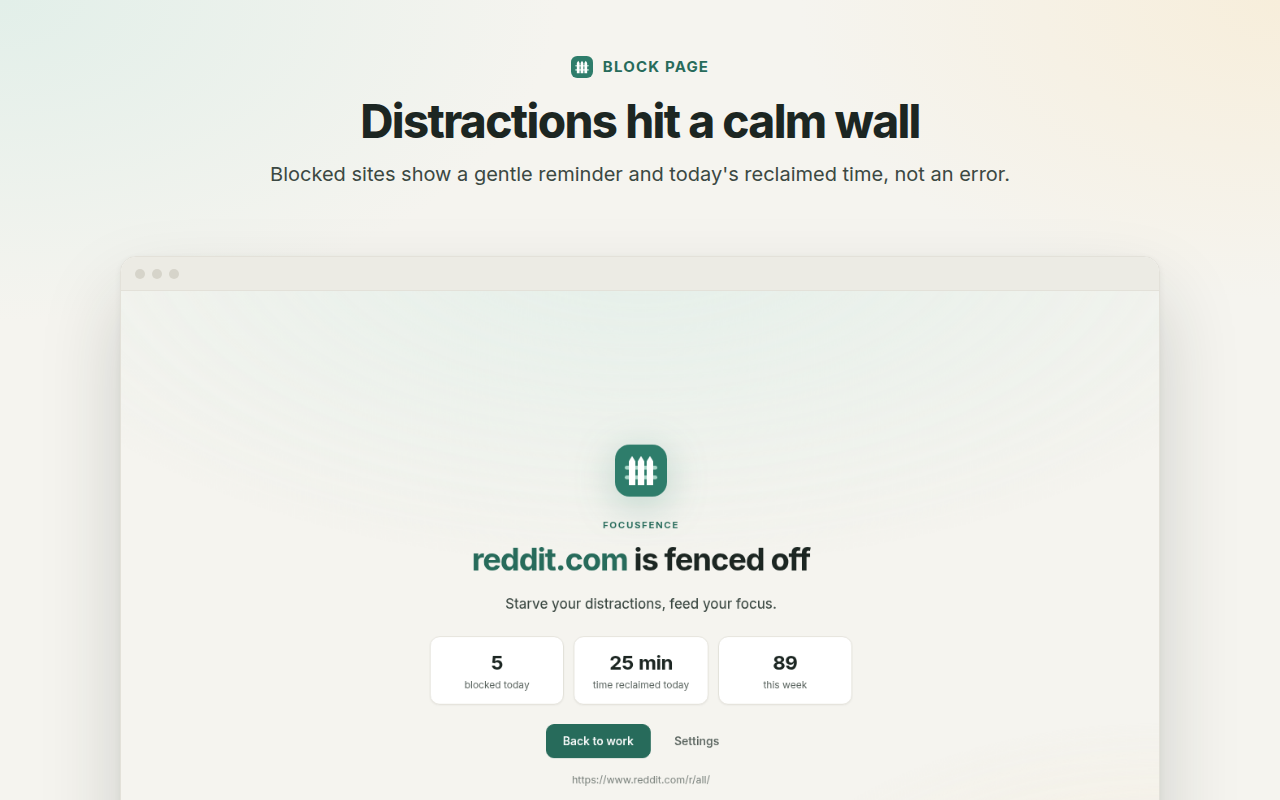
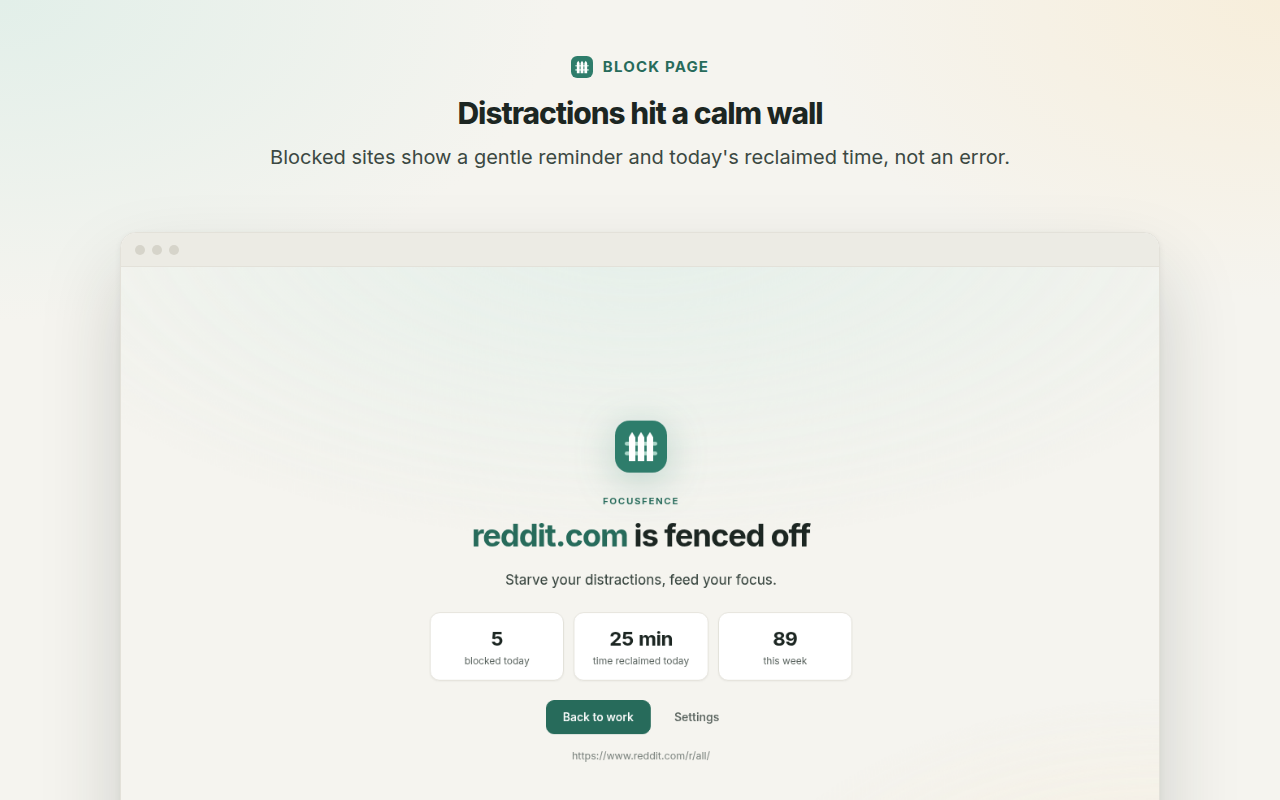
docs(focusfence): localized store screenshots and promo tiles (fr, es, de)
5 captioned 1280x800 screenshots + 440x280 promo tile per language, rendered
from the real extension running in that language; captions in
store/screenshots.json, plan and translations in store/screenshots.md;
long translations shrink the headline / move the frame automatically.

diff --git a/focusfence/store/screenshots.md b/focusfence/store/screenshots.md
@@ -1,7 +1,7 @@
 # Chrome Web Store screenshots: plan and captions
 
-Five screenshots, **1280×800 PNG**, uploaded in this order. The first one is the most important: it shows in search results and at the top of the listing.
-Captions live in [`screenshots.json`](screenshots.json), the single source used by `npm run screenshots`. Edit the texts there, never in the images.
+Five screenshots, **1280×800 PNG**, uploaded in this order, in **four languages**: English (`screenshots/`), French (`screenshots/fr/`), Spanish (`screenshots/es/`) and German (`screenshots/de/`). Each folder also has its own 440×280 promo tile. The first one is the most important: it shows in search results and at the top of the listing.
+Captions live in [`screenshots.json`](screenshots.json), the single source used by the screenshot script. Edit the texts there, never in the images. The UI inside each image is the real extension running in that language.
 
 | # | File | Kicker | Headline | Subtitle | What the UI shows | Why it's in this slot |
 |---|---|---|---|---|---|---|
@@ -11,12 +11,41 @@ Captions live in [`screenshots.json`](screenshots.json), the single source used 
 | 4 | `screenshots/store-4-schedule-focus-strict.png` | SCHEDULES · FOCUS · STRICT MODE | **Focus on your schedule** | Block during work hours, run Pomodoro sessions, lock it in with strict mode. | Two weekday time ranges, Pomodoro settings (25/5 × 4), strict-mode start | Groups the three Pro features people search for (schedule, pomodoro, strict). |
 | 5 | `screenshots/store-5-stats.png` | PRIVATE STATS | **See the time you take back** | Blocked attempts per site and per day, counted on your device only. | 7-day bar chart (decreasing), top sites, "7h 25m reclaimed" | Motivation plus the privacy promise; closes the scroll on a positive result. |
 
-Small promo tile (440×280): `screenshots/promo-tile-440x280.png`, "Fence off distractions. Get your focus back."
+Small promo tile (440×280): `promo-tile-440x280.png` in each language folder:
+
+| Lang | Headline | Subtitle |
+|---|---|---|
+| en | Fence off distractions. Get your focus back. | Block sites, schedule focus, stay in strict mode. |
+| fr | Bloquez les distractions. Retrouvez votre concentration. | Bloquez des sites, planifiez, passez en mode strict. |
+| es | Bloquea distracciones. Recupera la concentración. | Bloquea webs, planifica tu foco, usa el modo estricto. |
+| de | Ablenkungen aussperren. Fokus zurückholen. | Seiten sperren, Fokus planen, strikter Modus. |
+
+## Translated captions (fr, es, de)
+
+| # | Lang | Kicker | Headline | Subtitle |
+|---|---|---|---|---|
+| 1 | fr | Page de blocage | **Les distractions butent sur un mur apaisant** | Les sites bloqués affichent un rappel bienveillant et le temps regagné, pas une erreur. |
+| 1 | es | Página de bloqueo | **Las distracciones chocan con un muro tranquilo** | Las webs bloqueadas muestran un recordatorio amable y el tiempo recuperado, no un error. |
+| 1 | de | Sperrseite | **Ablenkungen prallen an einer ruhigen Wand ab** | Gesperrte Seiten zeigen eine freundliche Erinnerung und gewonnene Zeit – keinen Fehler. |
+| 2 | fr | En un clic | **Bloquez les fils sans fin.** | Bloquez les sites qui vous distraient en un clic, ou seulement le pire, comme YouTube Shorts. |
+| 2 | es | Con un clic | **Corta los feeds infinitos.** | Bloquea las webs que te distraen con un clic, o solo lo peor, como YouTube Shorts. |
+| 2 | de | Ein Klick | **Schluss mit endlosen Feeds.** | Blockiere ablenkende Seiten mit einem Klick – oder nur das Schlimmste, wie YouTube Shorts. |
+| 3 | fr | Liste de blocage | **Bloquez un site entier, ou juste le pire** | Sous-domaines compris. Pro bloque des chemins comme youtube.com/shorts, ou un mot-clé. |
+| 3 | es | Lista de bloqueo | **Bloquea webs enteras, o solo lo peor** | Subdominios incluidos. Pro bloquea rutas como youtube.com/shorts o una palabra clave. |
+| 3 | de | Sperrliste | **Ganze Seiten sperren – oder nur das Schlimmste** | Subdomains inklusive. Pro sperrt Pfade wie youtube.com/shorts oder Stichwörter. |
+| 4 | fr | Horaires · Concentration · Mode strict | **Concentrez-vous selon vos horaires** | Bloquez pendant le travail, lancez des sessions Pomodoro, verrouillez avec le mode strict. |
+| 4 | es | Horarios · Concentración · Modo estricto | **Concéntrate según tu horario** | Bloquea en horas de trabajo, haz sesiones Pomodoro y blíndalo con el modo estricto. |
+| 4 | de | Zeitpläne · Fokus · Strikter Modus | **Fokus nach deinem Zeitplan** | Sperre während der Arbeit, starte Pomodoro-Sitzungen, sichere alles mit dem strikten Modus. |
+| 5 | fr | Statistiques privées | **Voyez le temps que vous récupérez** | Tentatives bloquées par site et par jour, comptées uniquement sur votre appareil. |
+| 5 | es | Estadísticas privadas | **Mira el tiempo que recuperas** | Intentos bloqueados por web y por día, contados solo en tu dispositivo. |
+| 5 | de | Private Statistik | **Sieh, wie viel Zeit du zurückgewinnst** | Blockierte Versuche pro Seite und Tag, nur auf deinem Gerät gezählt. |
+
+In the dashboard, upload each set under its language: **Store listing → language → Screenshots**.
 
 ## Rules followed
 
 - Real UI only: every screen is the actual extension rendered by Playwright with seeded demo data, no mock-ups. Store policy forbids misleading imagery.
-- One message per image, readable at thumbnail size: 46 px headline, one-line subtitle.
+- One message per image, readable at thumbnail size: 46 px headline (shrunk automatically if a translation is longer), subtitle on one line where possible.
 - No third-party logos or trademarks in the artwork. Site names appear only as text inside the real UI.
 - Same frame, colours and type across all five, so the set reads as one product.
 - Environment-dependent warnings (e.g. "Incognito windows are not blocked") are hidden in marketing shots only. The real product shows them.
@@ -25,8 +54,9 @@ Small promo tile (440×280): `screenshots/promo-tile-440x280.png`, "Fence off di
 
 ```bash
 cd focusfence
-npm run screenshots            # light mode (store set)
-node scripts/screenshots.mjs --dark   # optional dark-mode variants (*-dark.png)
+npm run screenshots:all                 # en + fr + es + de
+node scripts/screenshots.mjs --lang fr  # one language
+node scripts/screenshots.mjs --dark     # optional dark-mode variants (*-dark.png, English)
 ```
 
 Raw, uncaptioned UI captures are written next to them (`block-page.png`, `popup.png`, `options*.png`). The landing page in `docs/` uses those.
